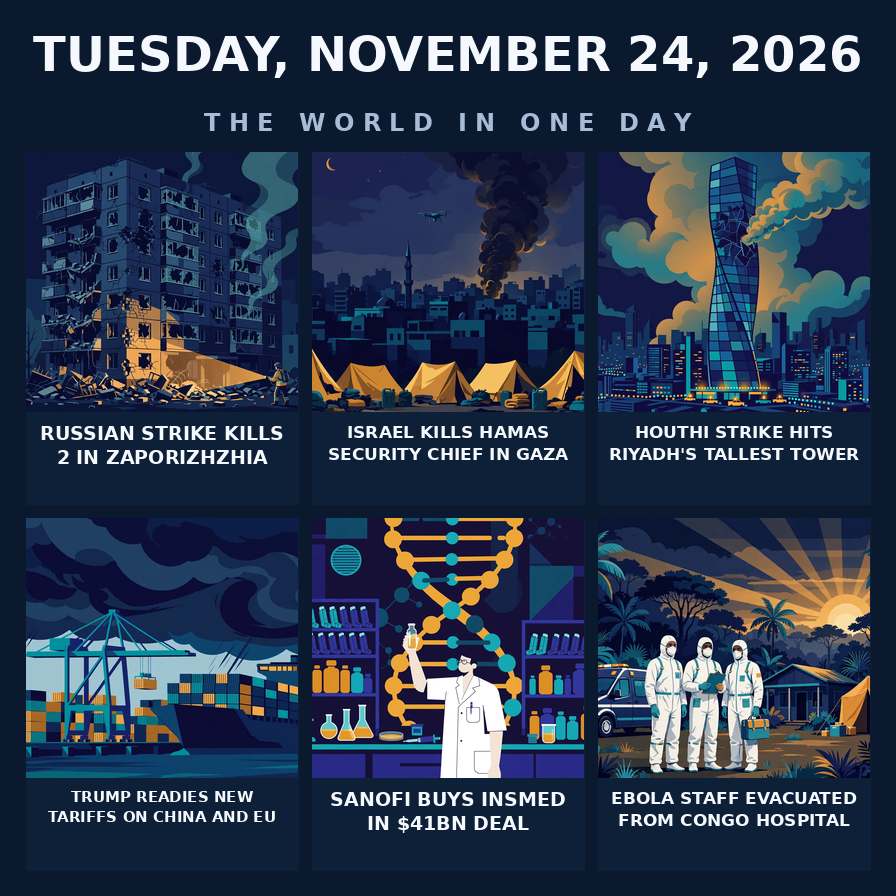
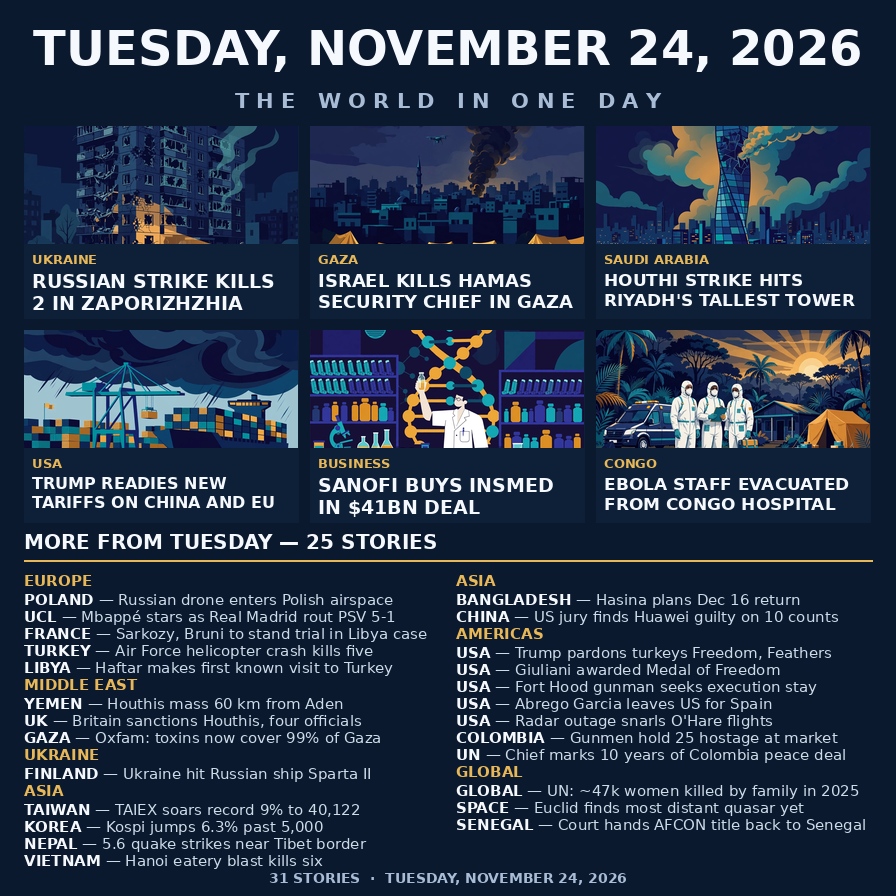
News-image v2: dense 31-story front page for Tuesday 24 November 2026

diff --git a/main.ts b/main.ts
@@ -1,12 +1,17 @@
 // News-image entry for Tuesday 24 November 2026 (Node 22, standard library only).
-// The image is a six-panel editorial poster naming the day and its biggest stories:
-// the Russian strike on Zaporizhzhia, Israel killing Hamas security chief Abu Nahel
-// in Gaza, the Houthi strike on Riyadh's tallest tower, Trump readying new tariffs
-// on China and the EU, Sanofi's $41bn purchase of Insmed, and the evacuation of
-// Ebola responders from a hospital in DR Congo. Every headline was checked against
-// at least two independent news sources before the poster was drawn.
-// The entry image is the entry.png beside this file; the program copies it to
-// /output/entry.png, byte for byte, so both grader runs produce the same file.
+// The image is a dense front page naming the day and 31 of its stories: six
+// illustrated hero panels (the Russian strike on Zaporizhzhia, Israel killing
+// Hamas security chief Abu Nahel in Gaza, the Houthi strike on Riyadh's tallest
+// tower, Trump readying new tariffs on China and the EU, Sanofi's $41bn purchase
+// of Insmed, and the evacuation of Ebola responders from a hospital in DR Congo)
+// plus a 25-story dense list grouped by region — Poland, Sarkozy's trial,
+// the TAIEX record, the Huawei verdict, the AFCON title ruling and more.
+// Every headline was checked against at least two independent news sources
+// before the poster was drawn; nothing on the page is invented.
+// The entry image is the entry.png beside this file — a dense 31-story front
+// page drawn once by the build script and shipped as a static asset. The
+// program copies it to /output/entry.png, byte for byte, so both grader runs
+// produce the same file.
 // Outside the grader's container, MAKEFUN_OUTPUT_DIR stands in for /output:
 //   mkdir -p out && MAKEFUN_OUTPUT_DIR=out node main.ts
 

diff --git a/README.md b/README.md
@@ -4,7 +4,7 @@
 [![rank](https://make.fun/badge/news-image-20261124/ariana889/news-image-20261124/rank.svg)](https://make.fun/bounty/news-image-20261124/leaderboard?utm_source=github&utm_medium=readme&utm_campaign=news-image-20261124)
 [![reward](https://make.fun/badge/news-image-20261124/ariana889/news-image-20261124/reward.svg)](https://make.fun/bounty/news-image-20261124?utm_source=github&utm_medium=readme&utm_campaign=news-image-20261124)
 
-One image that sums up the world news of Tuesday 24 November 2026: a Russian strike on the Ukrainian city of Zaporizhzhia killing two people and wounding at least 40, including four children; an Israeli airstrike in Gaza City killing Naeem Abu Nahel, the director of Hamas' internal security apparatus; a Houthi strike hitting Riyadh's tallest tower, the PIF headquarters, for the second time in five days and wounding 11 people; President Trump preparing sweeping new tariffs on China, the European Union and 14 other economies after a Section 301 probe, sending markets down; French drugmaker Sanofi agreeing to buy US biotech Insmed for $41 billion, the year's biggest biopharma deal; and WHO staff and Ebola responders being evacuated from a hospital in Akwe, DR Congo, after sheltering there for more than three days amid fierce fighting. The repository holds the image as `entry.png`; `main.ts` copies it to the output directory unchanged.
+One image that sums up the world news of Tuesday 24 November 2026 — a dense front page with 31 stories: six illustrated hero panels (a Russian strike on the Ukrainian city of Zaporizhzhia killing two people and wounding at least 40, including four children; an Israeli airstrike in Gaza City killing Naeem Abu Nahel, the director of Hamas' internal security apparatus; a Houthi strike hitting Riyadh's tallest tower, the PIF headquarters, for the second time in five days and wounding 11 people; President Trump preparing sweeping new tariffs on China, the European Union and 14 other economies after a Section 301 probe, sending markets down; French drugmaker Sanofi agreeing to buy US biotech Insmed for $41 billion, the year's biggest biopharma deal; and WHO staff and Ebola responders being evacuated from a hospital in Akwe, DR Congo, after sheltering there for more than three days amid fierce fighting) plus 25 more stories from the same day listed by region below. The repository holds the image as `entry.png`; `main.ts` copies it to the output directory unchanged.
 
 ## The six stories
 
